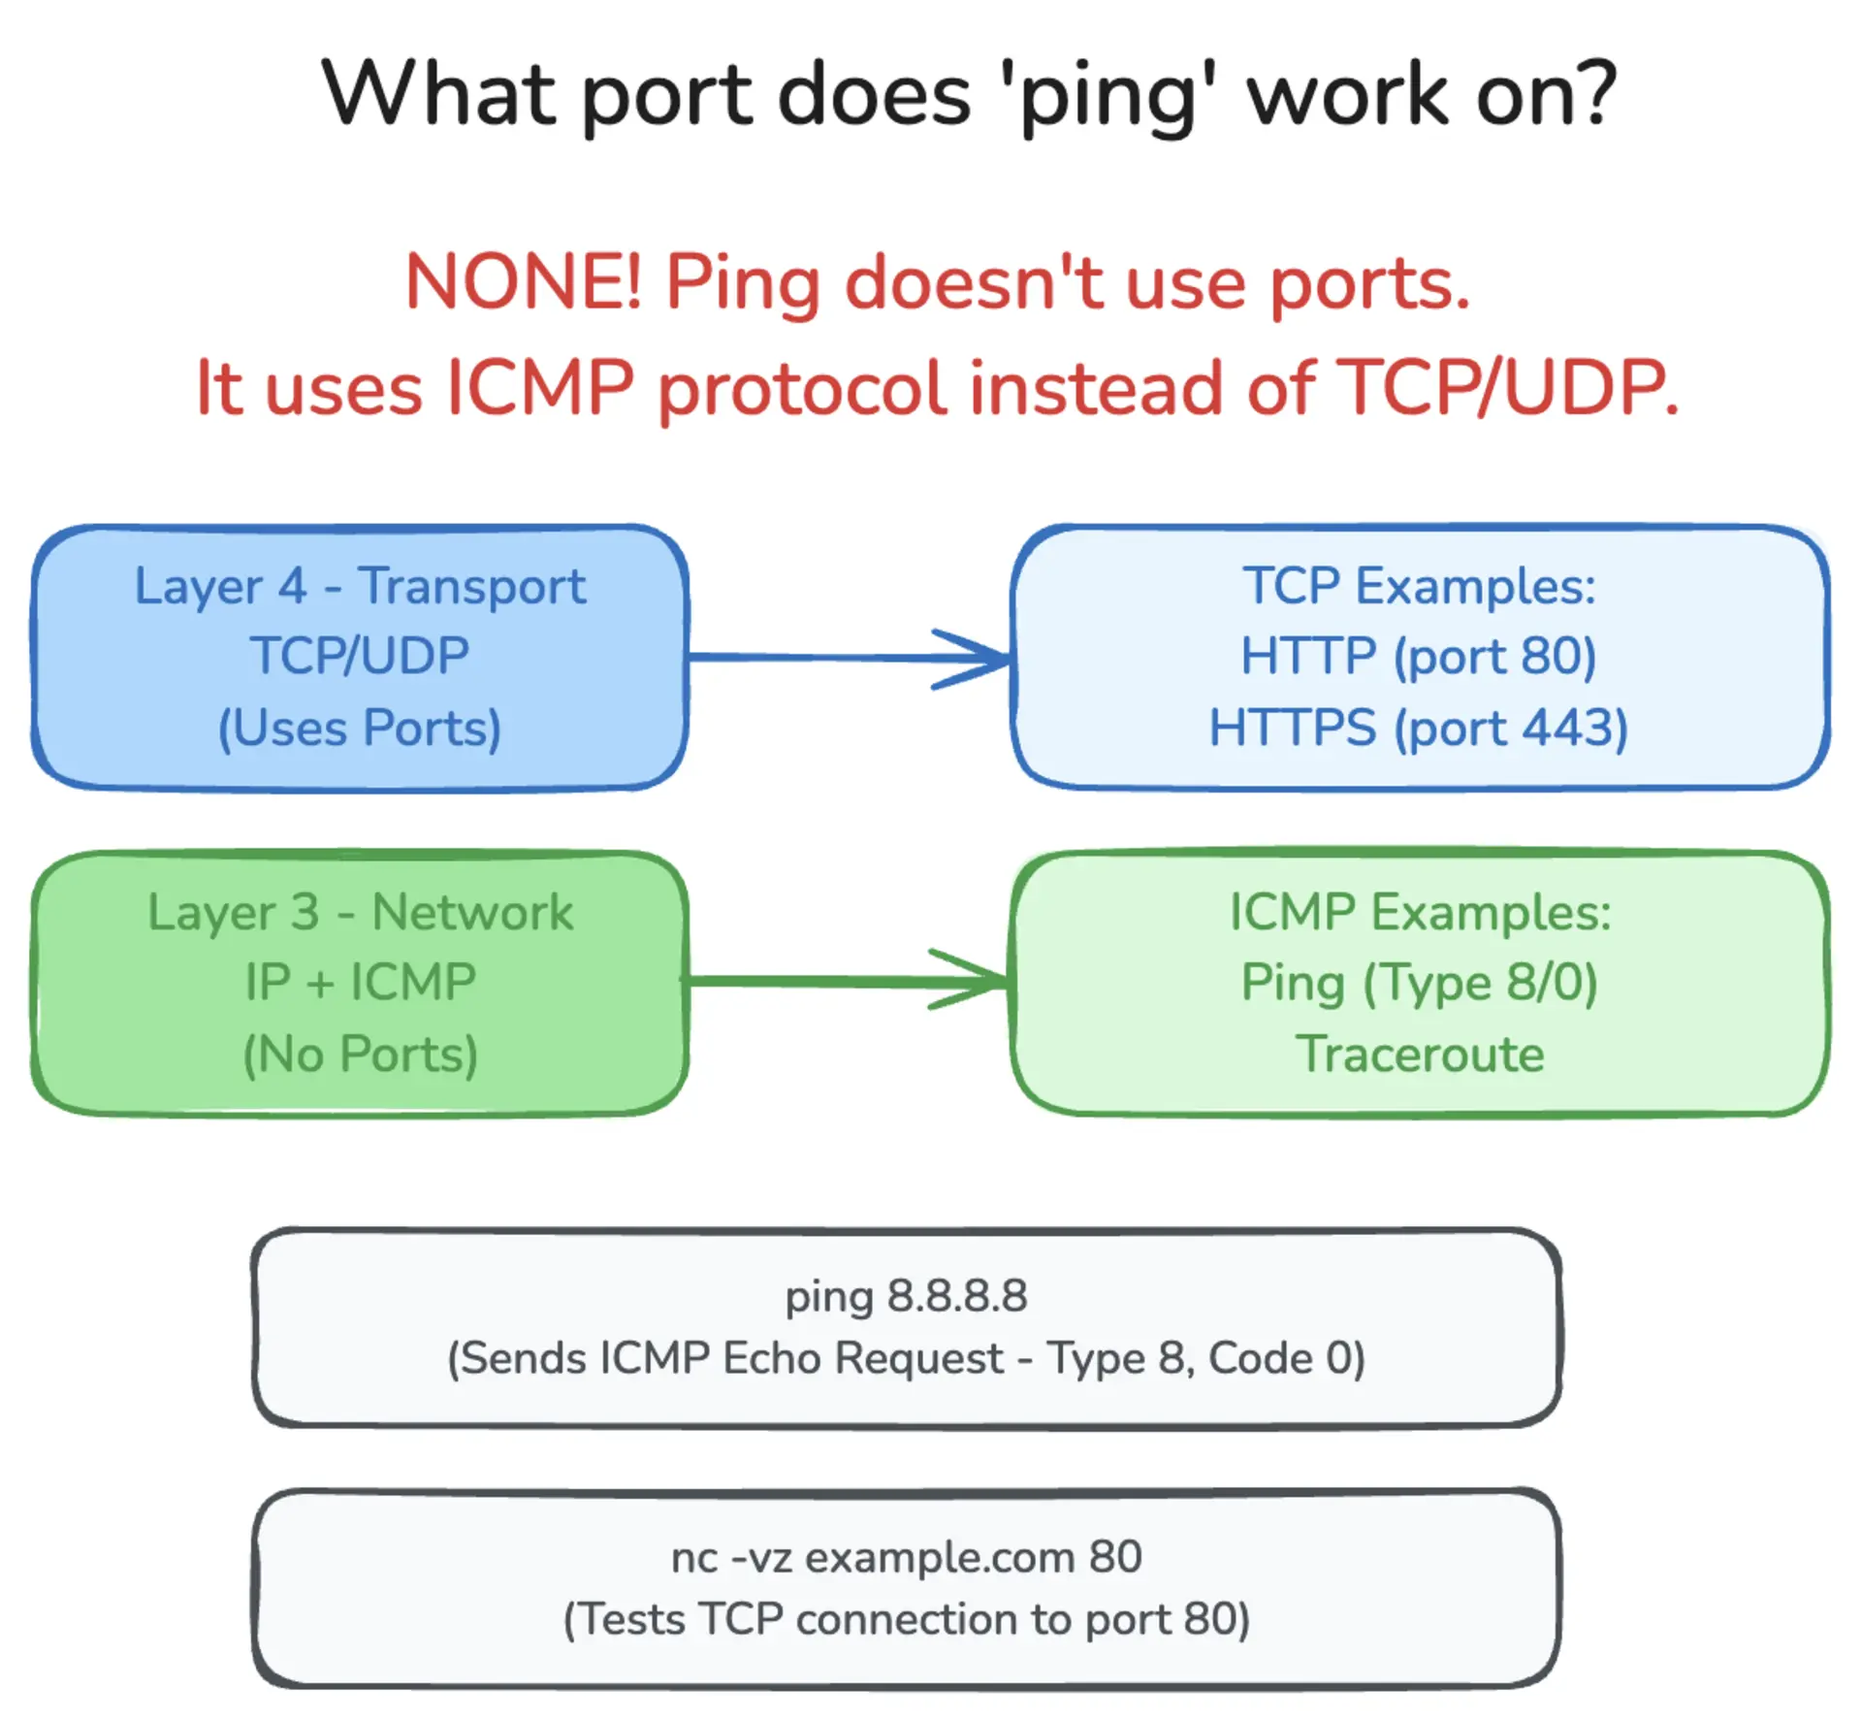
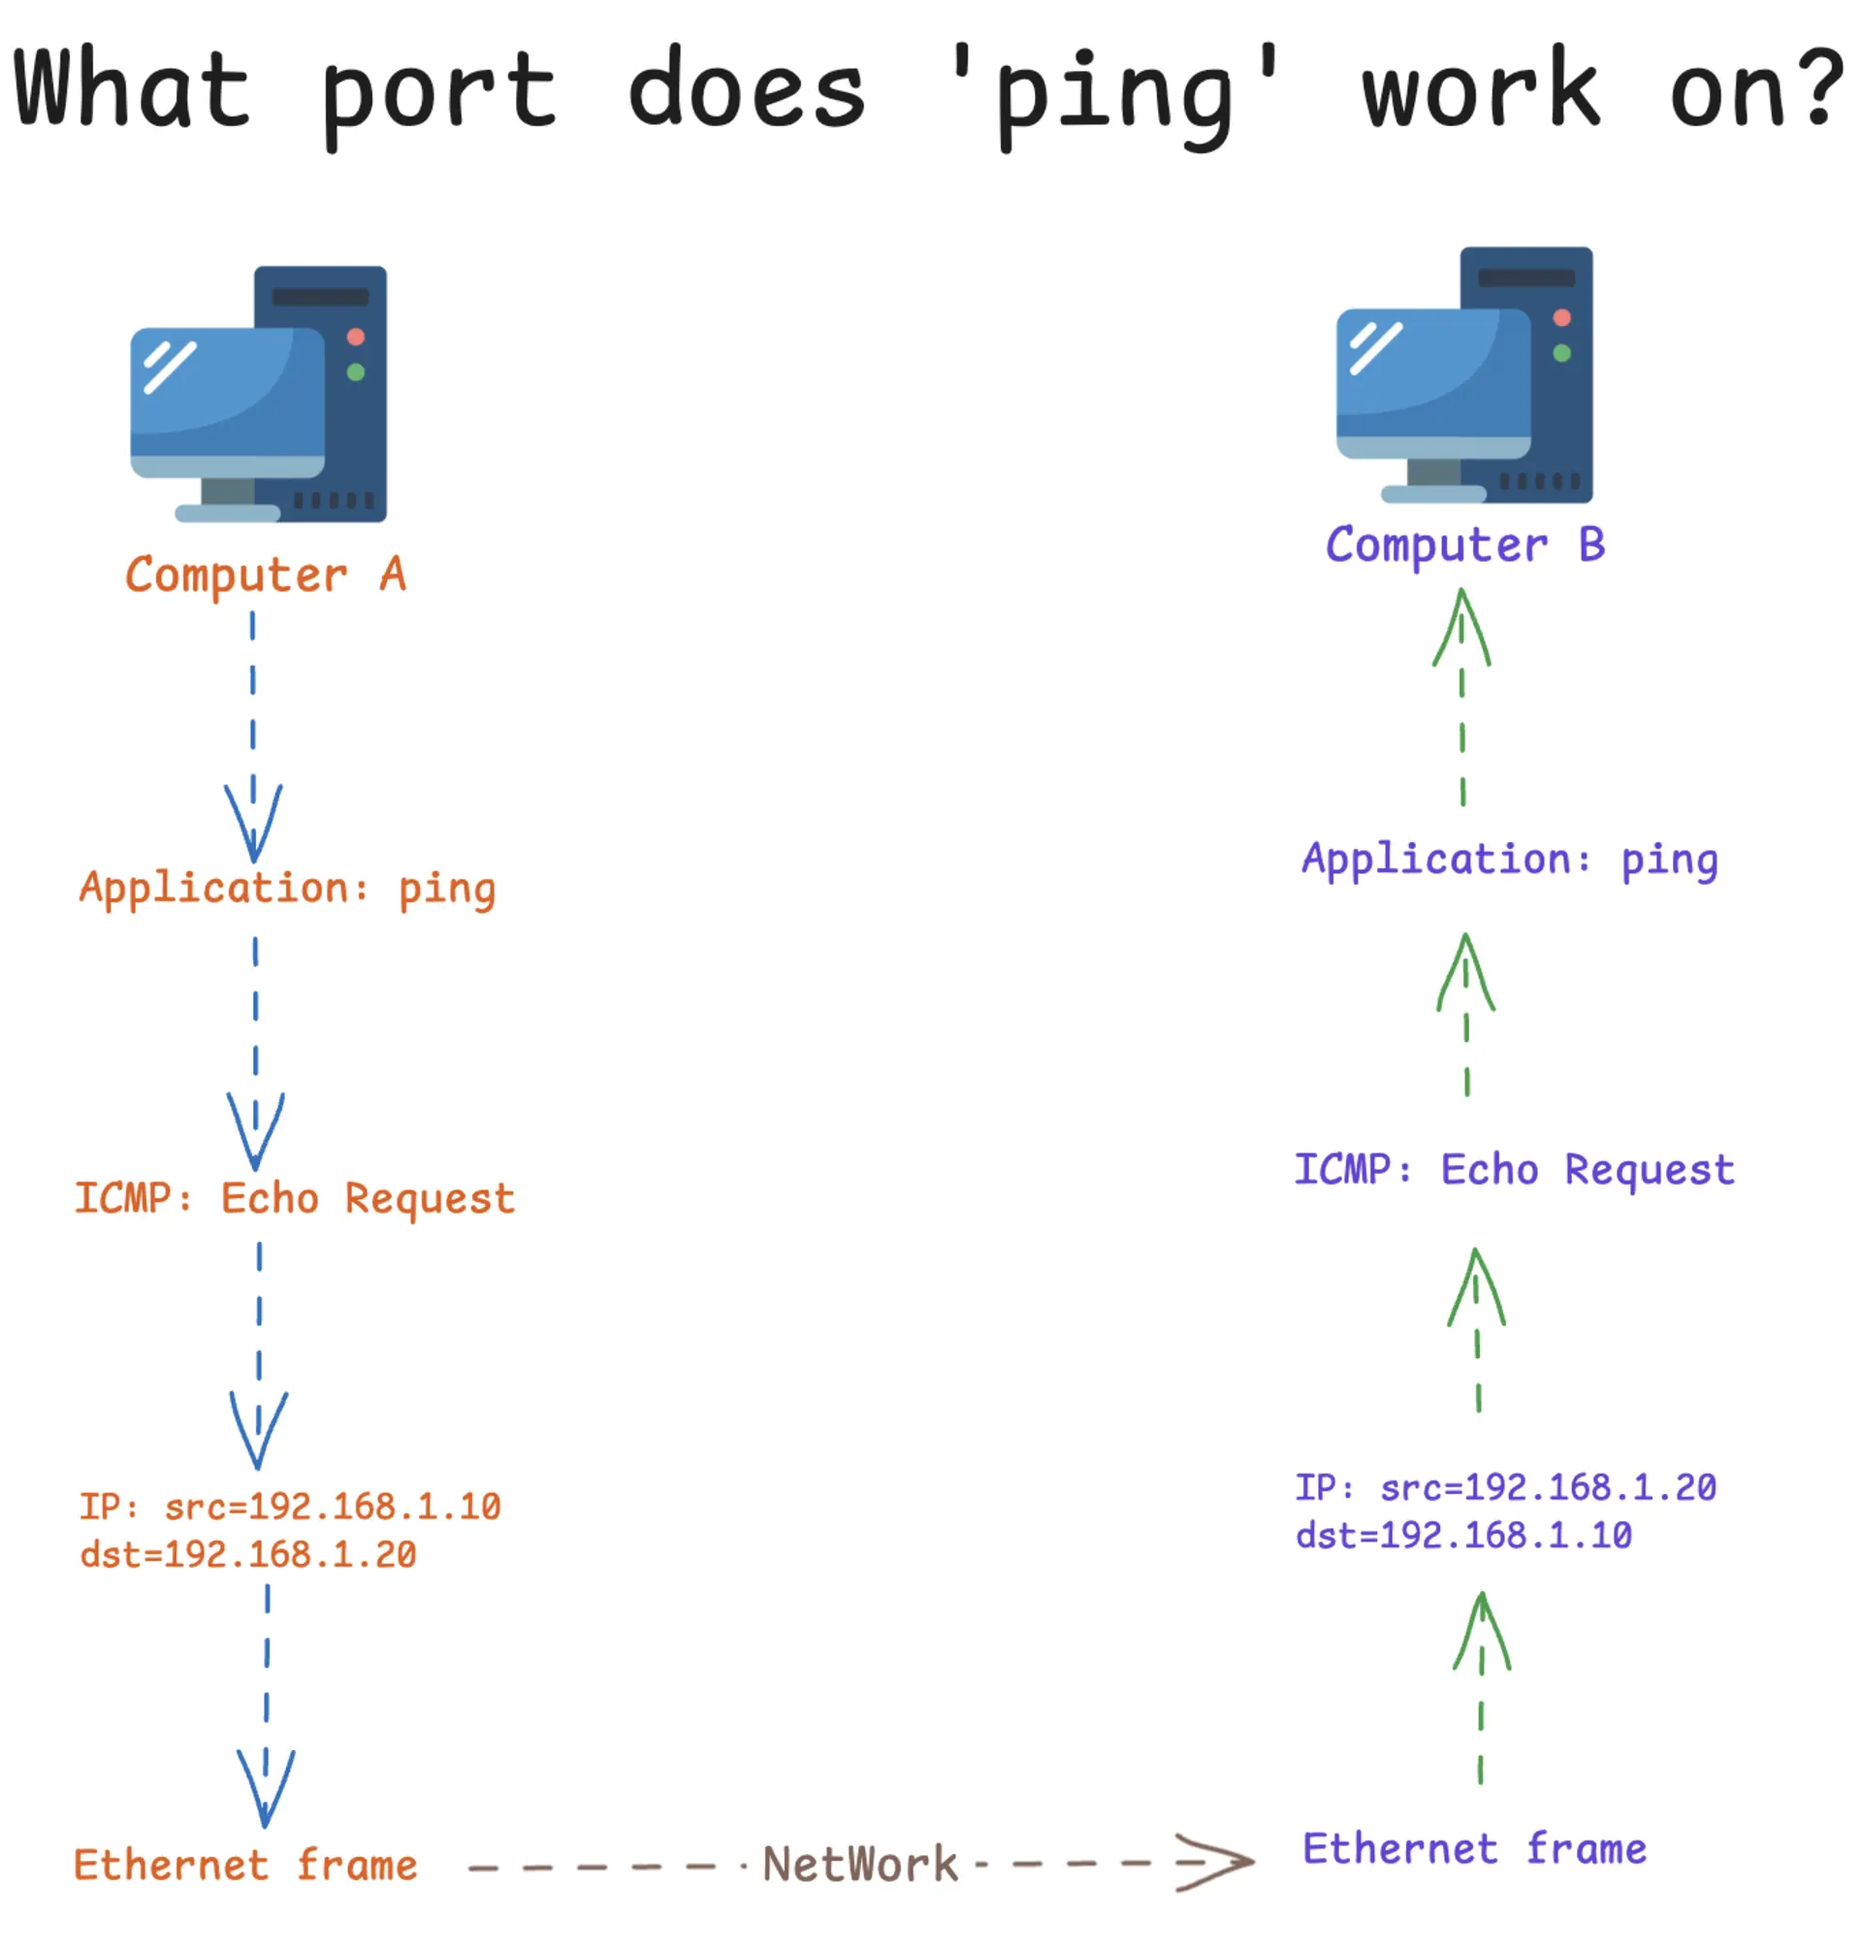
Update image in 'What port does ping work on?' blog post and remove obsolete table

diff --git a/content/blog/what_port_does_ping_work_on.md b/content/blog/what_port_does_ping_work_on.md
@@ -71,48 +71,7 @@ If you capture this in Wireshark, you'll literally see "ICMP Echo (ping) request
 
 Let's visualize this. Two machines: Computer A wants to `ping` Computer B. Here's how the ICMP message moves down and up through the layers:
 
-<table style="width: 100%; border-collapse: collapse; margin: 20px 0; font-family: monospace;">
-  <thead>
-    <tr style="background-color: #e9ecef;">
-      <th style="border: 2px solid #495057; padding: 15px; text-align: center; font-weight: bold;">Network Layer</th>
-      <th style="border: 2px solid #495057; padding: 15px; text-align: center; font-weight: bold;">Computer A (Sender)</th>
-      <th style="border: 2px solid #495057; padding: 15px; text-align: center; font-weight: bold;">Direction</th>
-      <th style="border: 2px solid #495057; padding: 15px; text-align: center; font-weight: bold;">Computer B (Receiver)</th>
-    </tr>
-  </thead>
-  <tbody>
-    <tr style="background-color: #f8f9fa;">
-      <td style="border: 1px solid #dee2e6; padding: 12px; font-weight: bold; background-color: #e3f2fd;">Application Layer</td>
-      <td style="border: 1px solid #dee2e6; padding: 12px;">[ Application: ping ]</td>
-      <td style="border: 1px solid #dee2e6; padding: 12px; text-align: center;">→</td>
-      <td style="border: 1px solid #dee2e6; padding: 12px;">[ Application: ping reply ]</td>
-    </tr>
-    <tr>
-      <td style="border: 1px solid #dee2e6; padding: 12px; font-weight: bold; background-color: #e8f5e8;">Network Layer (ICMP)</td>
-      <td style="border: 1px solid #dee2e6; padding: 12px;">[ ICMP: Echo Request ]</td>
-      <td style="border: 1px solid #dee2e6; padding: 12px; text-align: center;">→</td>
-      <td style="border: 1px solid #dee2e6; padding: 12px;">[ ICMP: Echo Reply ]</td>
-    </tr>
-    <tr style="background-color: #f8f9fa;">
-      <td style="border: 1px solid #dee2e6; padding: 12px; font-weight: bold; background-color: #fff3e0;">Network Layer (IP)</td>
-      <td style="border: 1px solid #dee2e6; padding: 12px;">[ IP: src=192.168.1.10<br>&nbsp;&nbsp;&nbsp;&nbsp;&nbsp;dst=192.168.1.20]</td>
-      <td style="border: 1px solid #dee2e6; padding: 12px; text-align: center;">→</td>
-      <td style="border: 1px solid #dee2e6; padding: 12px;">[ IP: src=192.168.1.20<br>&nbsp;&nbsp;&nbsp;&nbsp;&nbsp;dst=192.168.1.10 ]</td>
-    </tr>
-    <tr>
-      <td style="border: 1px solid #dee2e6; padding: 12px; font-weight: bold; background-color: #fce4ec;">Data Link Layer</td>
-      <td style="border: 1px solid #dee2e6; padding: 12px;">[ Ethernet frame ]</td>
-      <td style="border: 1px solid #dee2e6; padding: 12px; text-align: center;">→</td>
-      <td style="border: 1px solid #dee2e6; padding: 12px;">[ Ethernet frame ]</td>
-    </tr>
-    <tr style="background-color: #f0f0f0;">
-      <td style="border: 2px solid #495057; padding: 15px; font-weight: bold; text-align: center;" colspan="4">
-        <strong>Physical Network Transmission</strong><br>
-        <span style="font-size: 18px;">Computer A ----------> Network  ---------->  Computer B</span>
-      </td>
-    </tr>
-  </tbody>
-</table>
+{{< image "what_port_does_ping_work_on/what_port_does_ping_work_on_without_header.webp" "Message passing between two computers">}}
 
 **Key Observation**: Notice how there's **no transport layer** (no TCP/UDP) in this table, so there's nothing with a `port=...` field in it. The message just rides IP straight into ICMP land and back.
 
